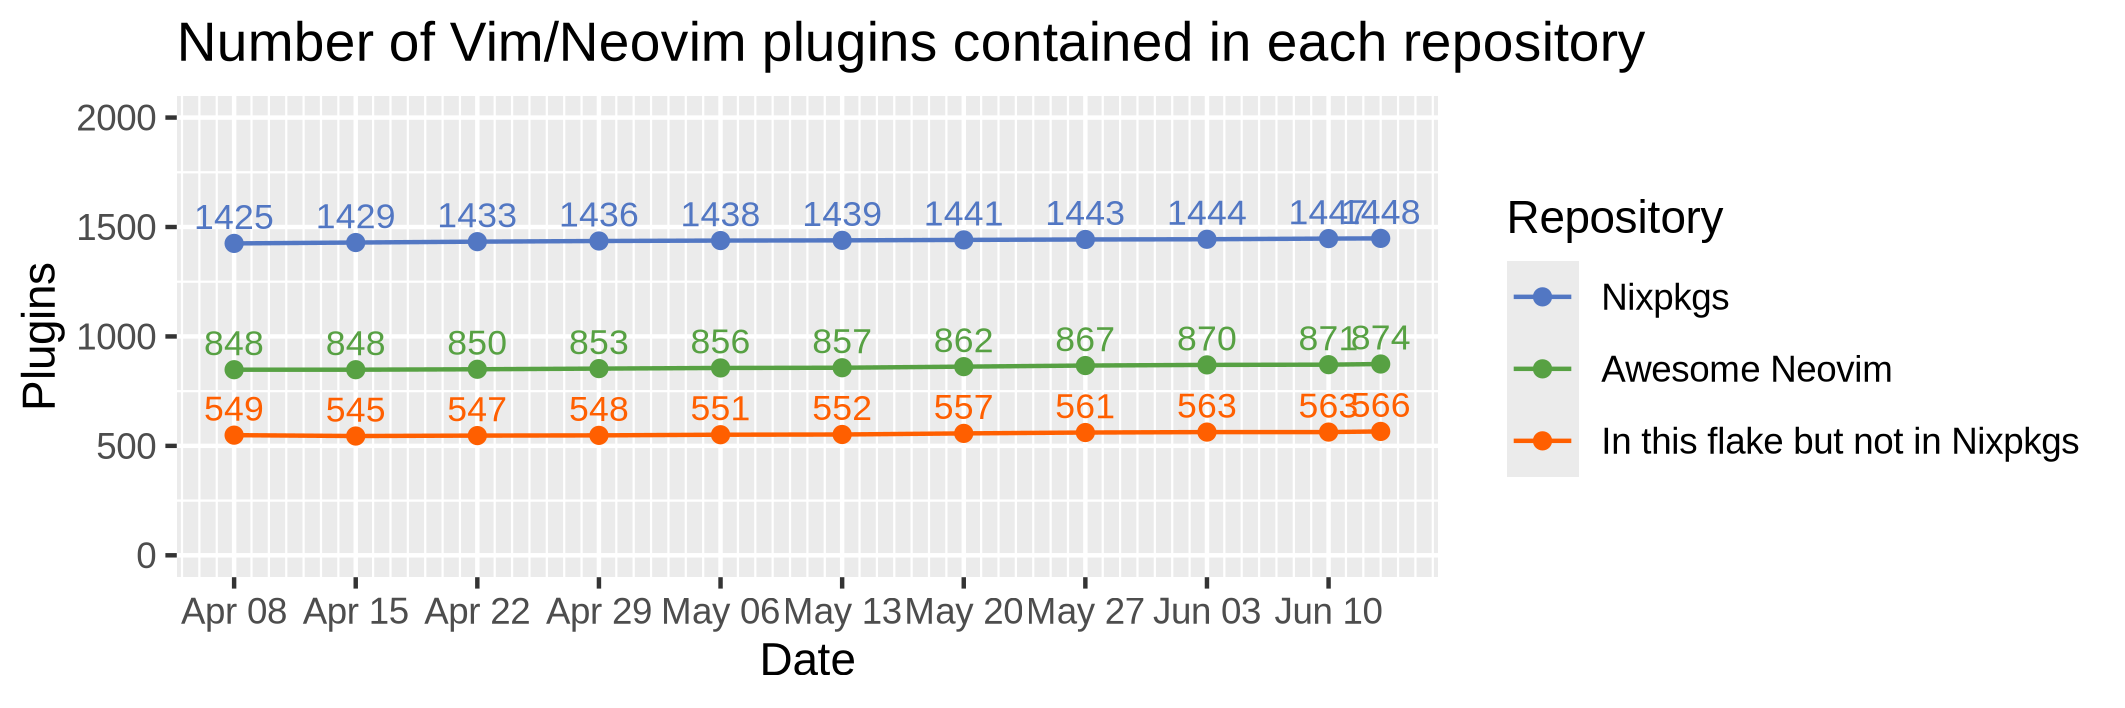
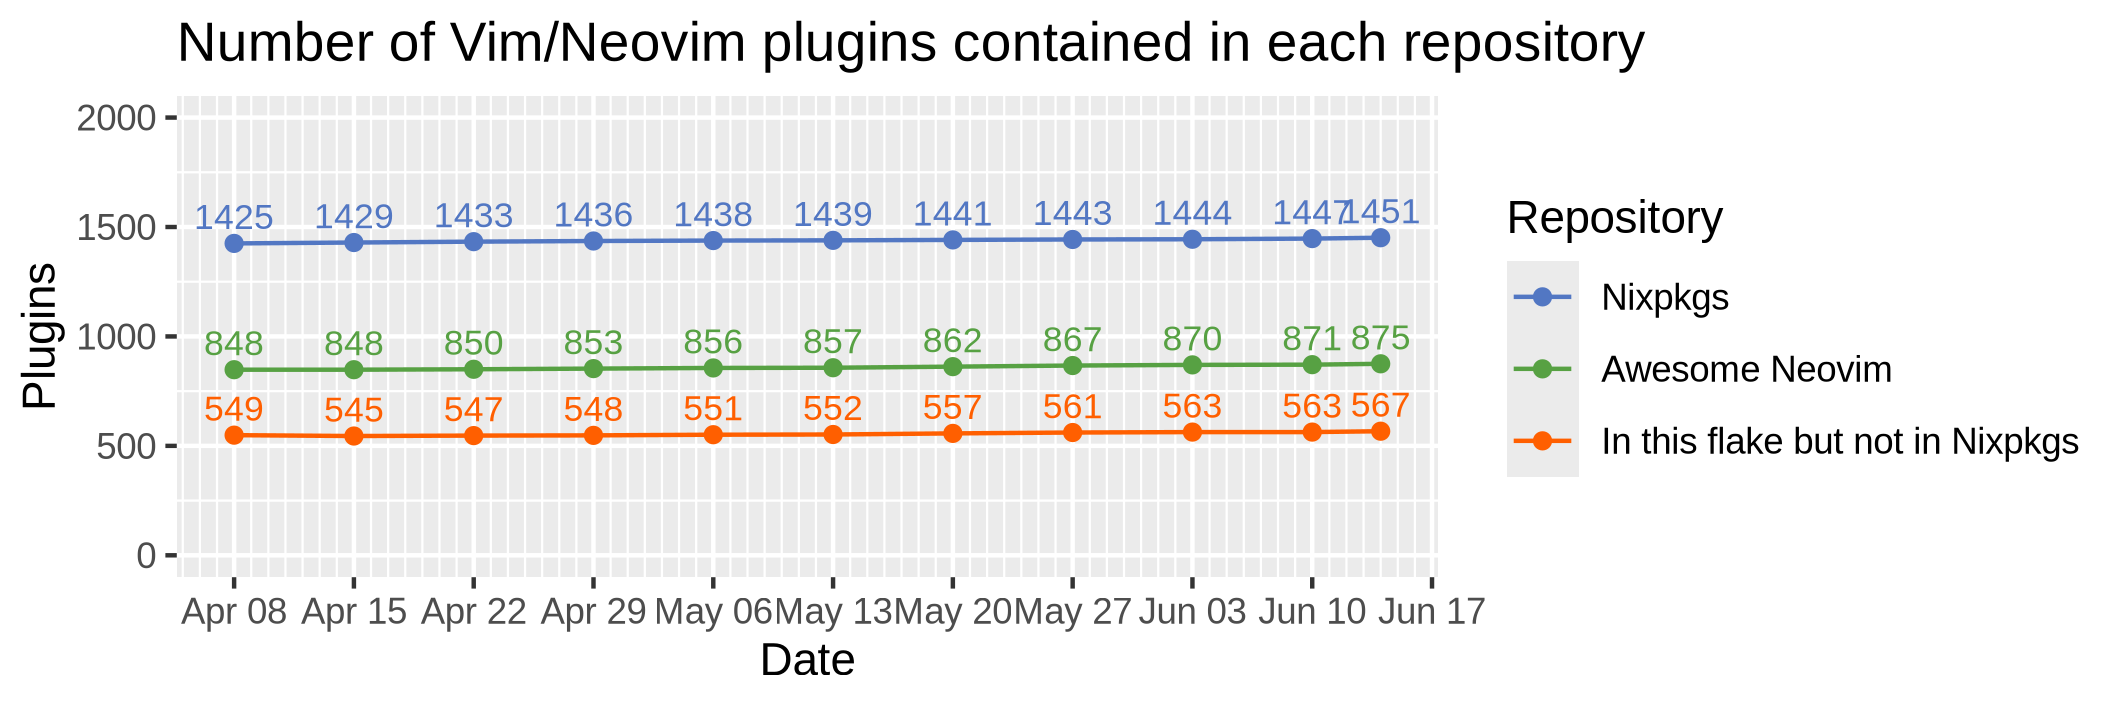
auto: update vim plugins

diff --git a/README.md b/README.md
@@ -8,7 +8,7 @@ Nix flake of Awesome Neovim plugins.
 
 [b1]: https://img.shields.io/github/actions/workflow/status/m15a/flake-awesome-neovim-plugins/check.yml?style=flat-square&logo=github&label=CI
 [b2]: https://github.com/m15a/flake-awesome-neovim-plugins/actions/workflows/check.yml
-[b3]: https://img.shields.io/badge/Awesome_Neovim_plugins-874-57A143?style=flat-square
+[b3]: https://img.shields.io/badge/Awesome_Neovim_plugins-875-57A143?style=flat-square
 [b4]: https://img.shields.io/endpoint?url=https://flakehub.com/f/m15a/flake-awesome-neovim-plugins/badge&style=flat-square
 [b5]: https://flakehub.com/flake/m15a/flake-awesome-neovim-plugins
 
